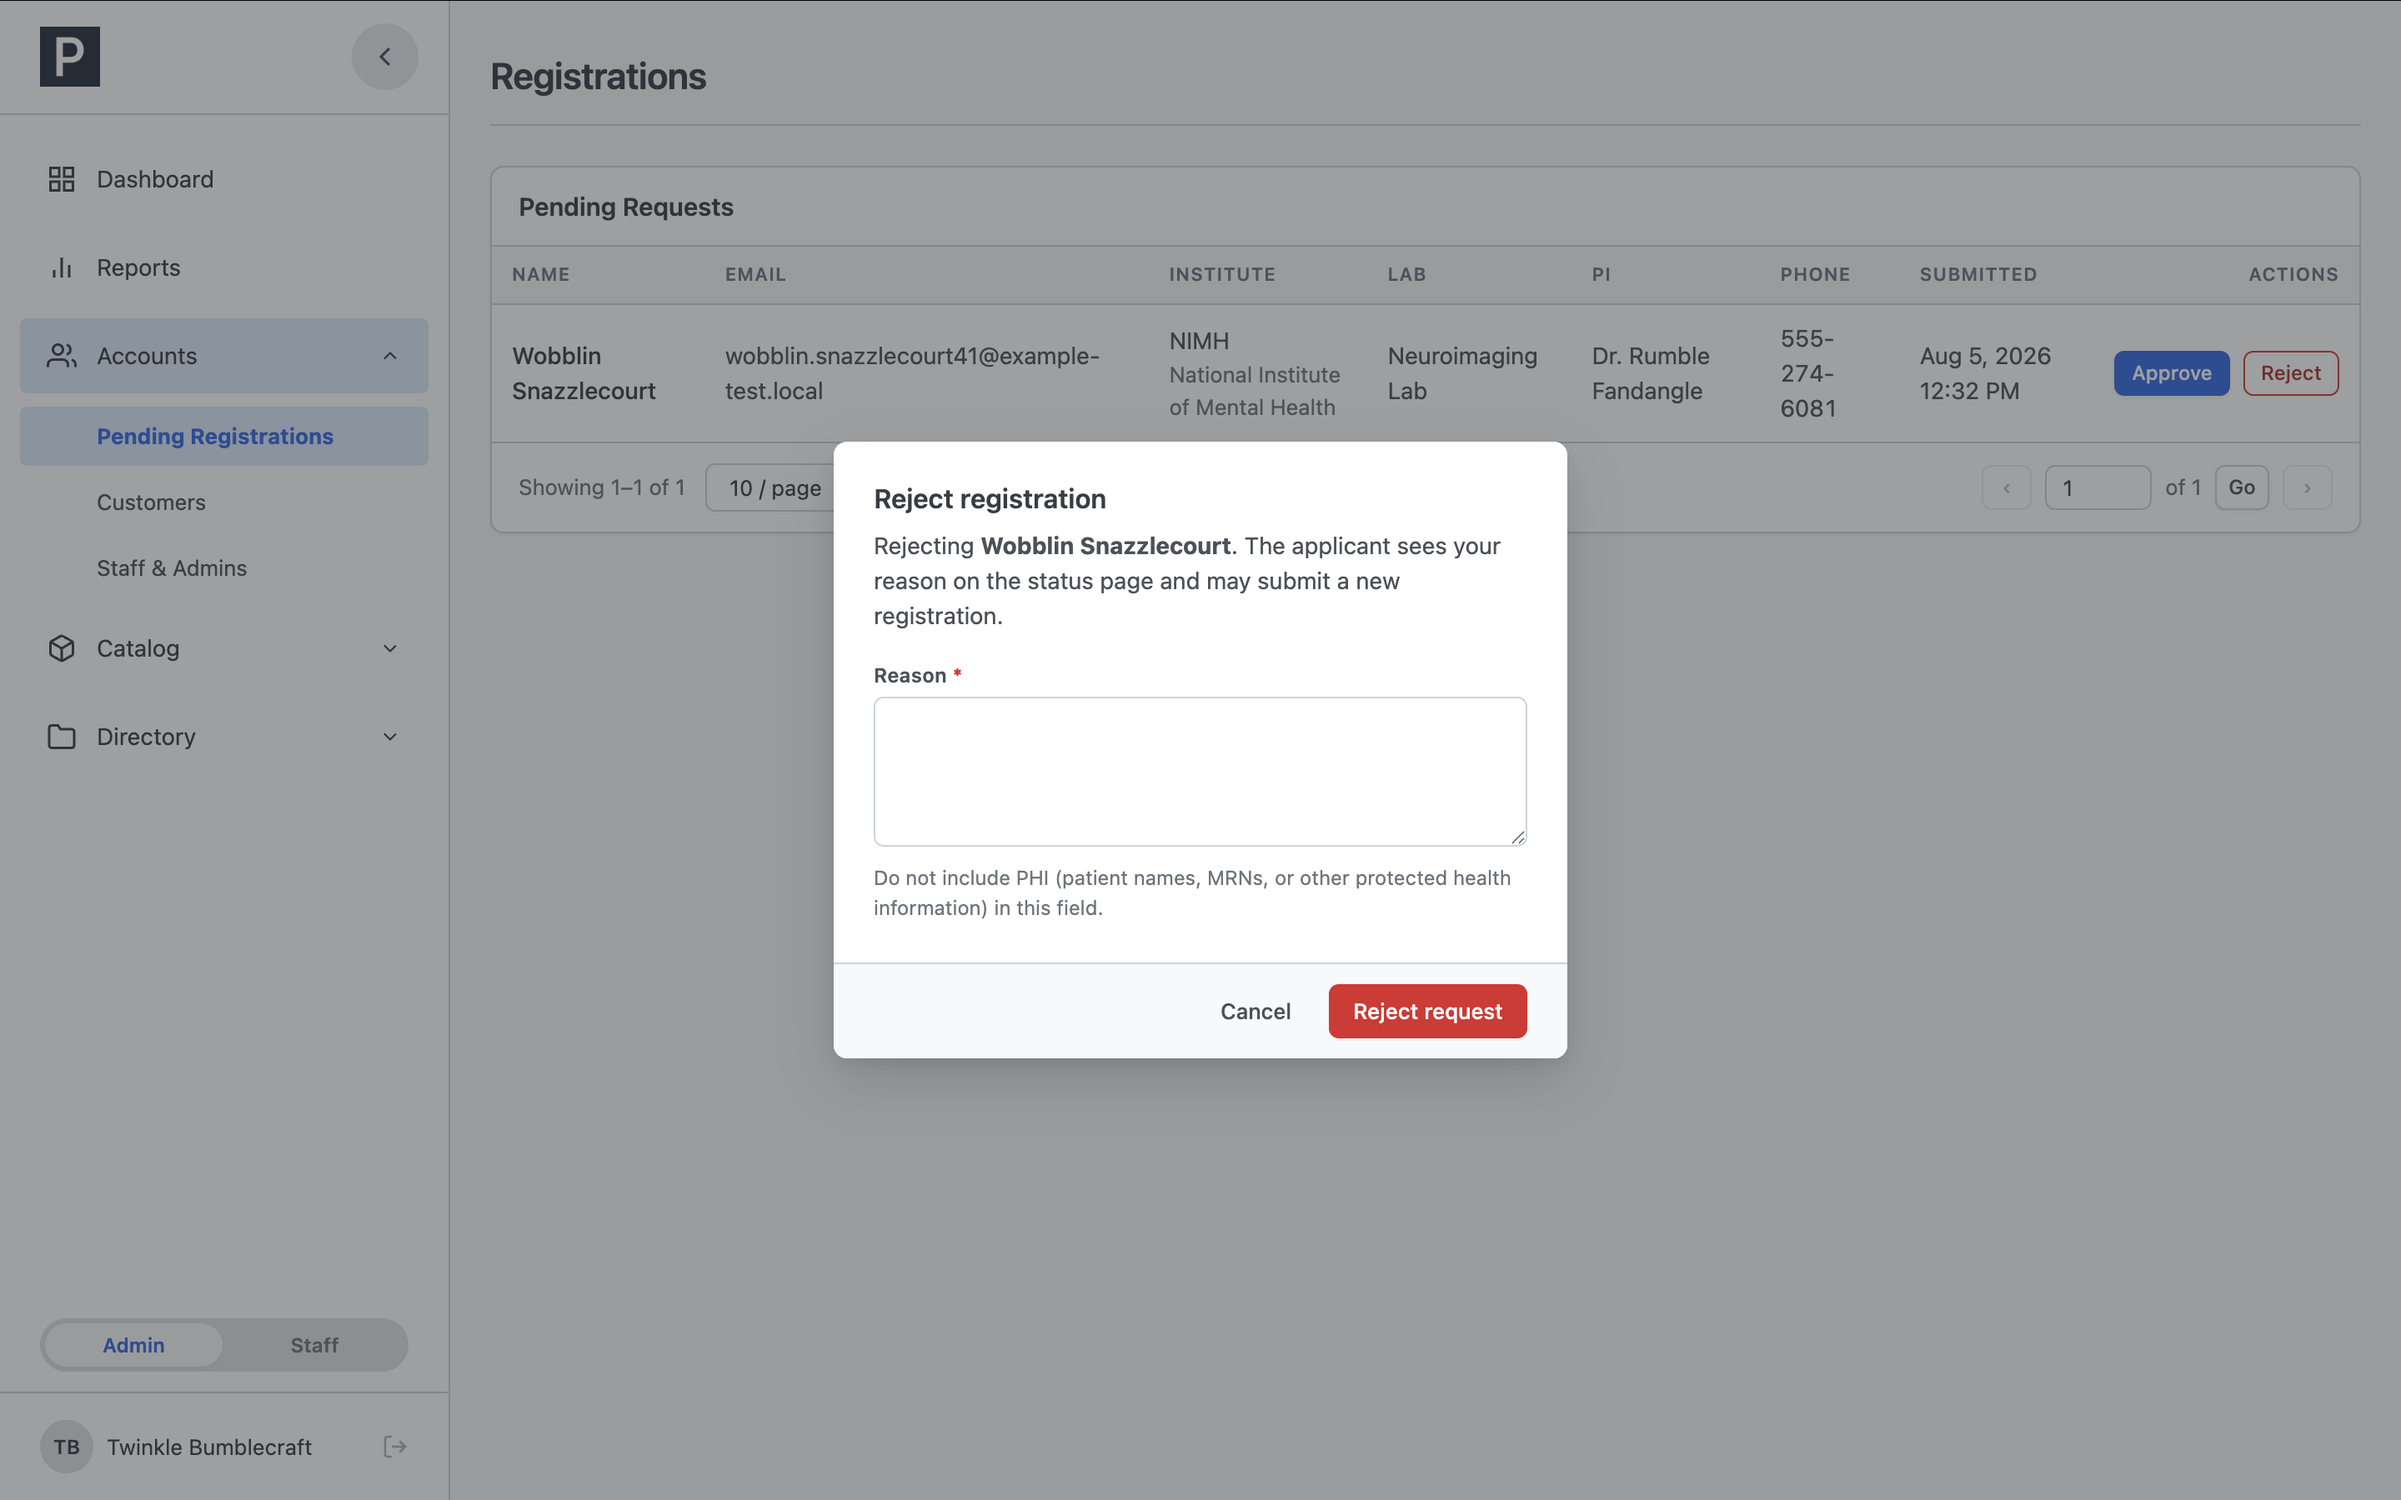
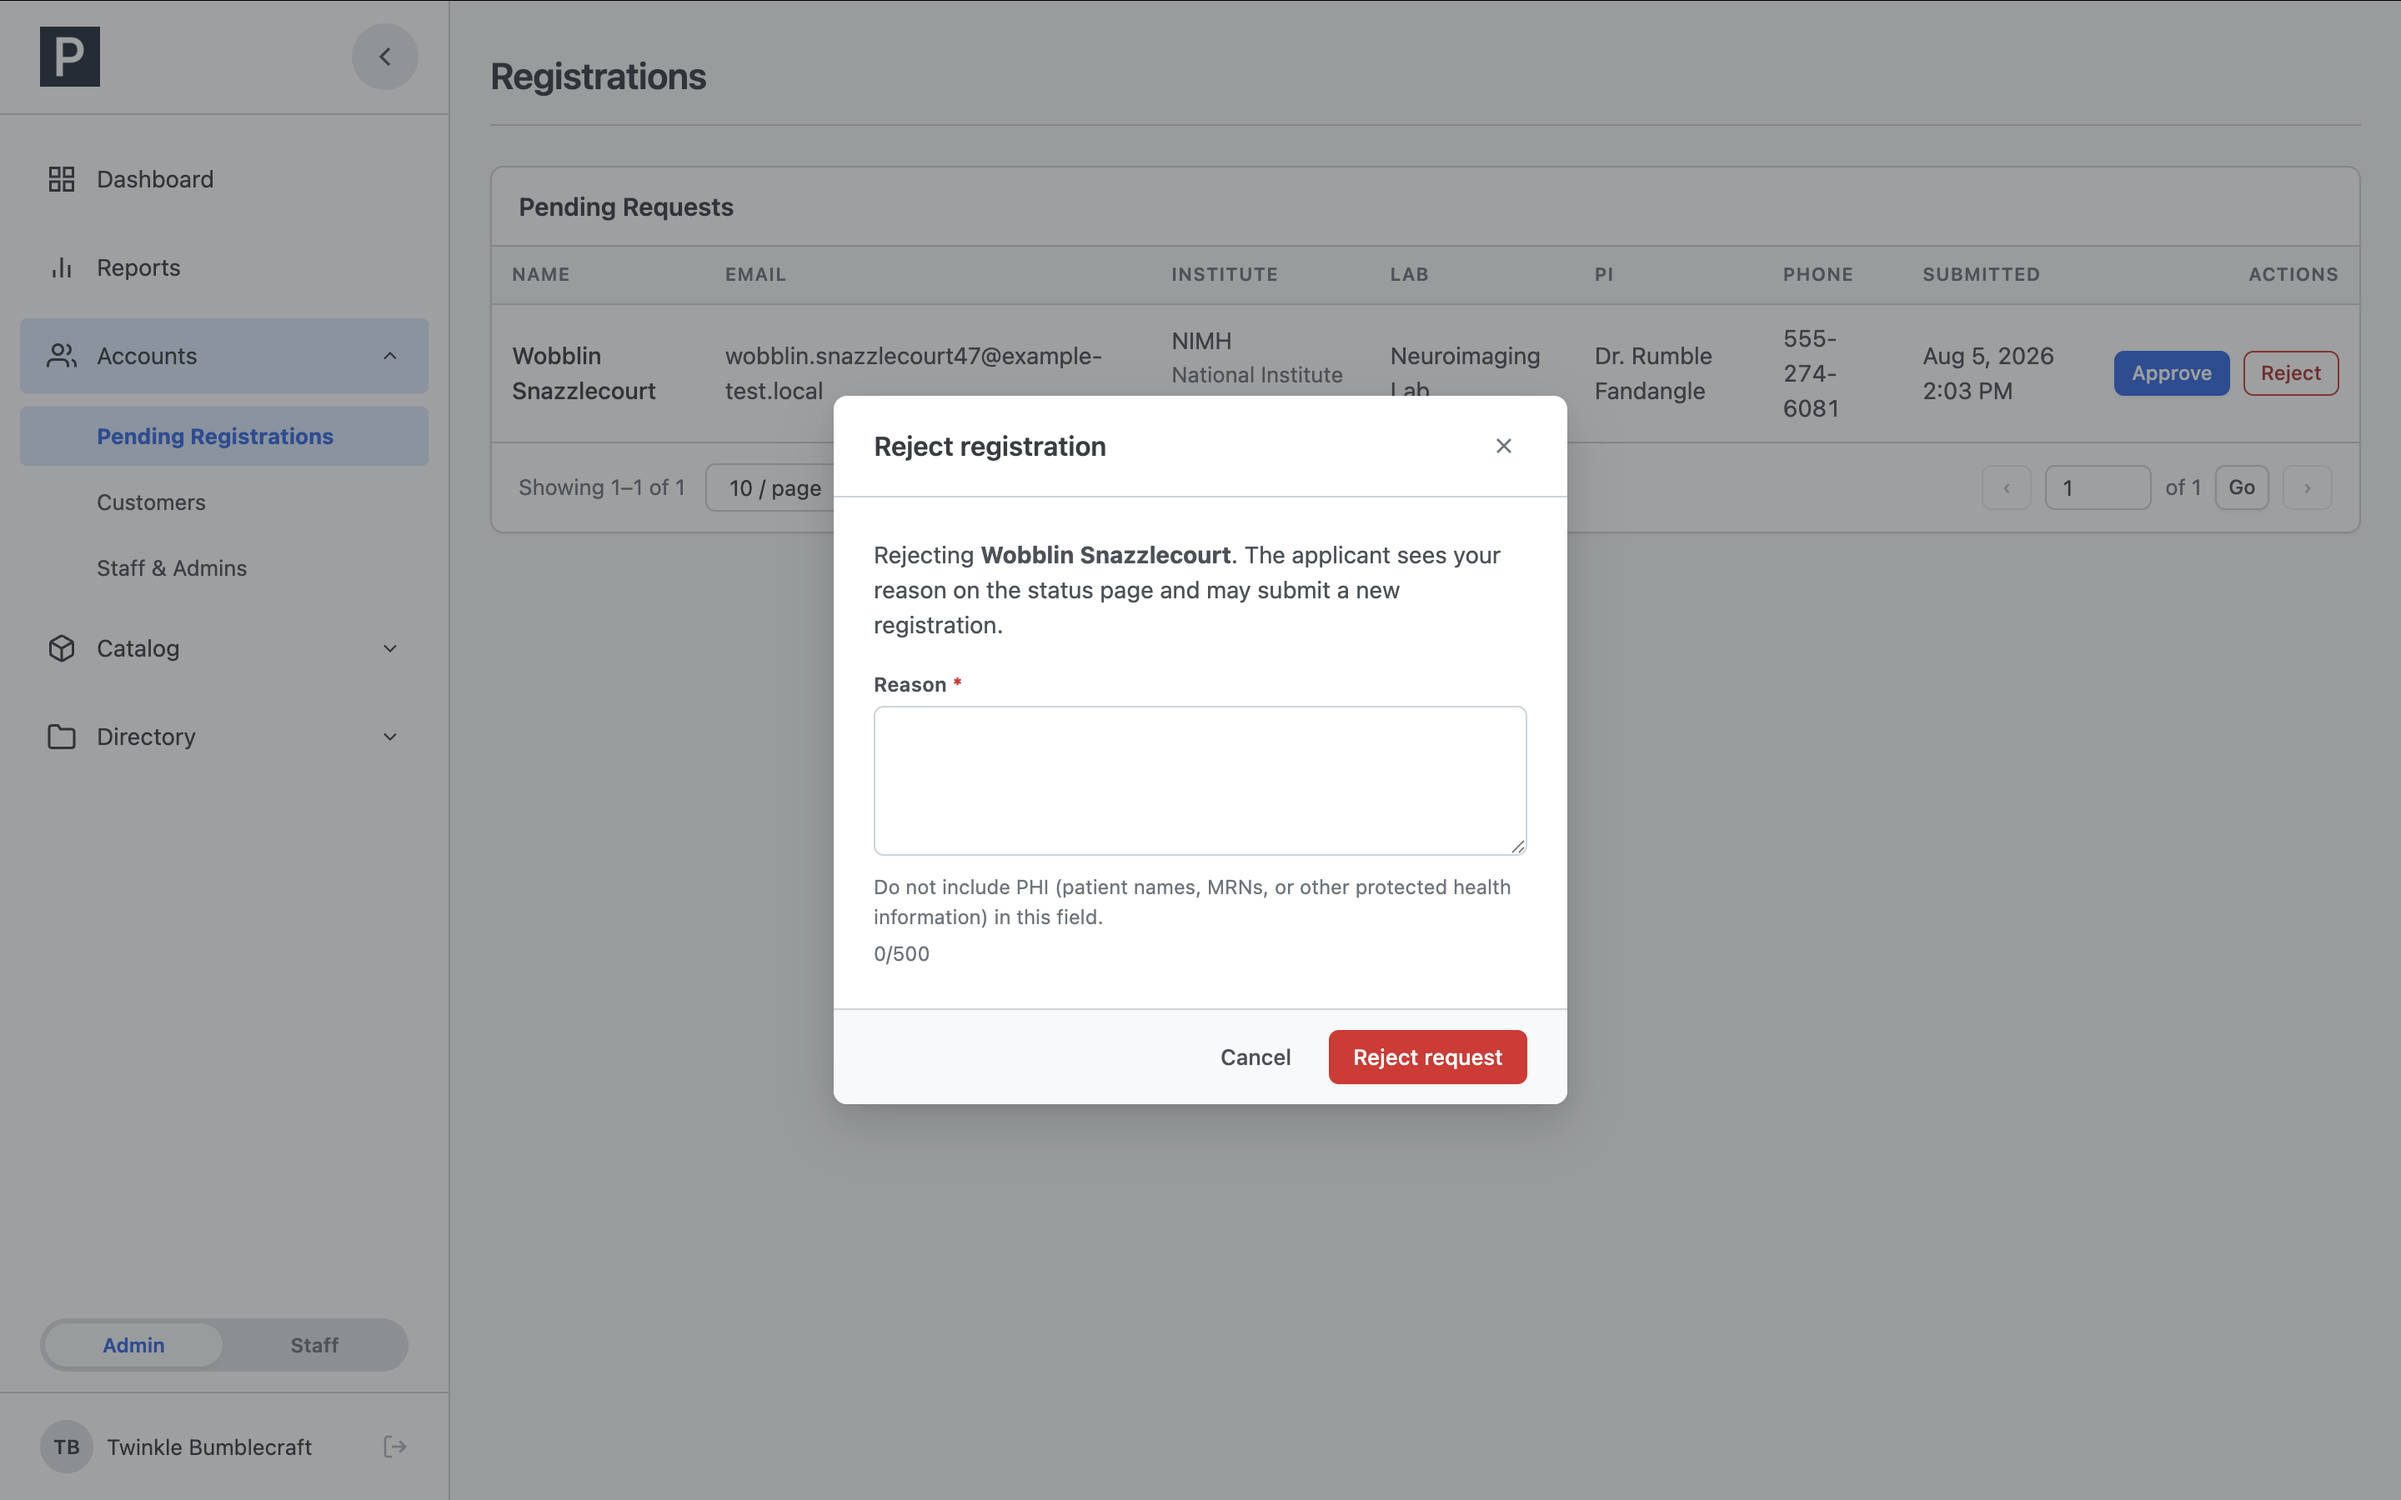
Fix/cancel modal char counter & updated corresponding media / images (#123)
* Add live character counter to the cancel order modal's reason field, matching the pattern already used by order-notes and the registration rejection modal

order_cancel_modal.php's cancellation reason textarea was the one
required-reason field left without a live "0/500" counter: both
order_notes_card.php's Notes field and admin/registrations.php's
reject-reason field already have one. Adds the same
field-hint.char-count span (initial value from mb_strlen, same as the
other two) to the shared modal partial, and wires the identical
input-listener counter update in both customer/order_detail.php and
staff/order_detail.php's bottom scripts, since each page owns its own
script block for the shared, zero-parameter partial.

* Update cancel-modal and reject-modal screenshots to show the new character counter

Refreshes the three documentation screenshots affected by the previous
commit's live "0/500" counter addition: both order-cancel-modal
screenshots (customer and staff guides) now show the counter under the
cancellation reason field, and the registration-reject-modal
screenshot (admin guide) is recaptured alongside them for a consistent
set since it already had the same counter pattern.

---------

diff --git a/public/customer/order_detail.php b/public/customer/order_detail.php
@@ -714,6 +714,18 @@ document.addEventListener('DOMContentLoaded', function () {
             { title: 'Discard this cancellation?', message: 'The reason you typed will be discarded.' },
             function () { cancelReasonField.value = ''; }
         );
+
+        // Live character counter for the reason: same behavior as the
+        // Notes counter below and the reject-reason counter on
+        // admin/registrations.php.
+        var cancelReasonCounter = document.getElementById('cancellation-reason-char-count');
+        if (cancelReasonField && cancelReasonCounter) {
+            var updateCancelReasonCounter = function () {
+                cancelReasonCounter.textContent = cancelReasonField.value.length + '/' + cancelReasonField.maxLength;
+            };
+            cancelReasonField.addEventListener('input', updateCancelReasonCounter);
+            updateCancelReasonCounter();
+        }
     }
     if (cancelTrigger && cancelModal) {
         cancelTrigger.addEventListener('click', function (e) {

diff --git a/public/staff/order_detail.php b/public/staff/order_detail.php
@@ -608,6 +608,18 @@ document.addEventListener('DOMContentLoaded', function () {
             { title: 'Discard this cancellation?', message: 'The reason you typed will be discarded.' },
             function () { cancelReasonField.value = ''; }
         );
+
+        // Live character counter for the reason: same behavior as the
+        // Notes counter below and the reject-reason counter on
+        // admin/registrations.php.
+        var cancelReasonCounter = document.getElementById('cancellation-reason-char-count');
+        if (cancelReasonField && cancelReasonCounter) {
+            var updateCancelReasonCounter = function () {
+                cancelReasonCounter.textContent = cancelReasonField.value.length + '/' + cancelReasonField.maxLength;
+            };
+            cancelReasonField.addEventListener('input', updateCancelReasonCounter);
+            updateCancelReasonCounter();
+        }
     }
     if (cancelTrigger && cancelModal) {
         cancelTrigger.addEventListener('click', function (e) {

diff --git a/src/partials/order_cancel_modal.php b/src/partials/order_cancel_modal.php
@@ -42,6 +42,7 @@
                     <label for="cancellation_reason">Cancellation reason <span class="required-mark">*</span></label>
                     <textarea id="cancellation_reason" name="cancellation_reason" maxlength="500" required data-modal-focus><?= e($cancelReasonOld) ?></textarea>
                     <span class="field-hint">Do not include PHI (patient names, MRNs, or other protected health information) in this field.</span>
+                    <span class="field-hint char-count" id="cancellation-reason-char-count"><?= mb_strlen($cancelReasonOld) ?>/500</span>
                     <?= field_error($cancelErrors, 'cancellation_reason') ?>
                 </div>
             </div>
